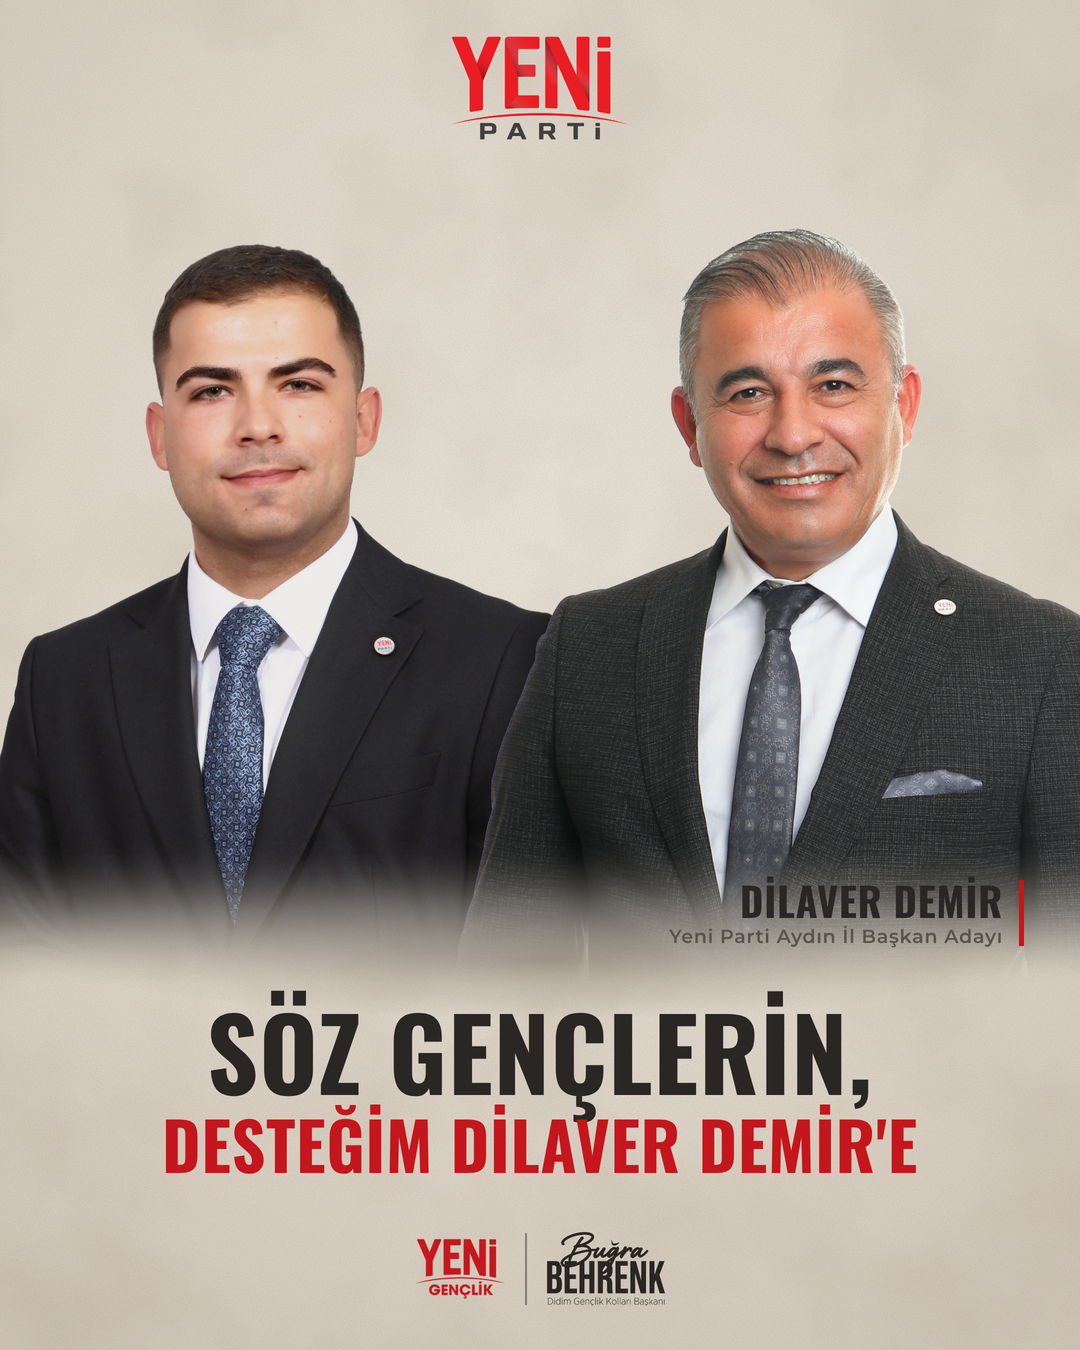
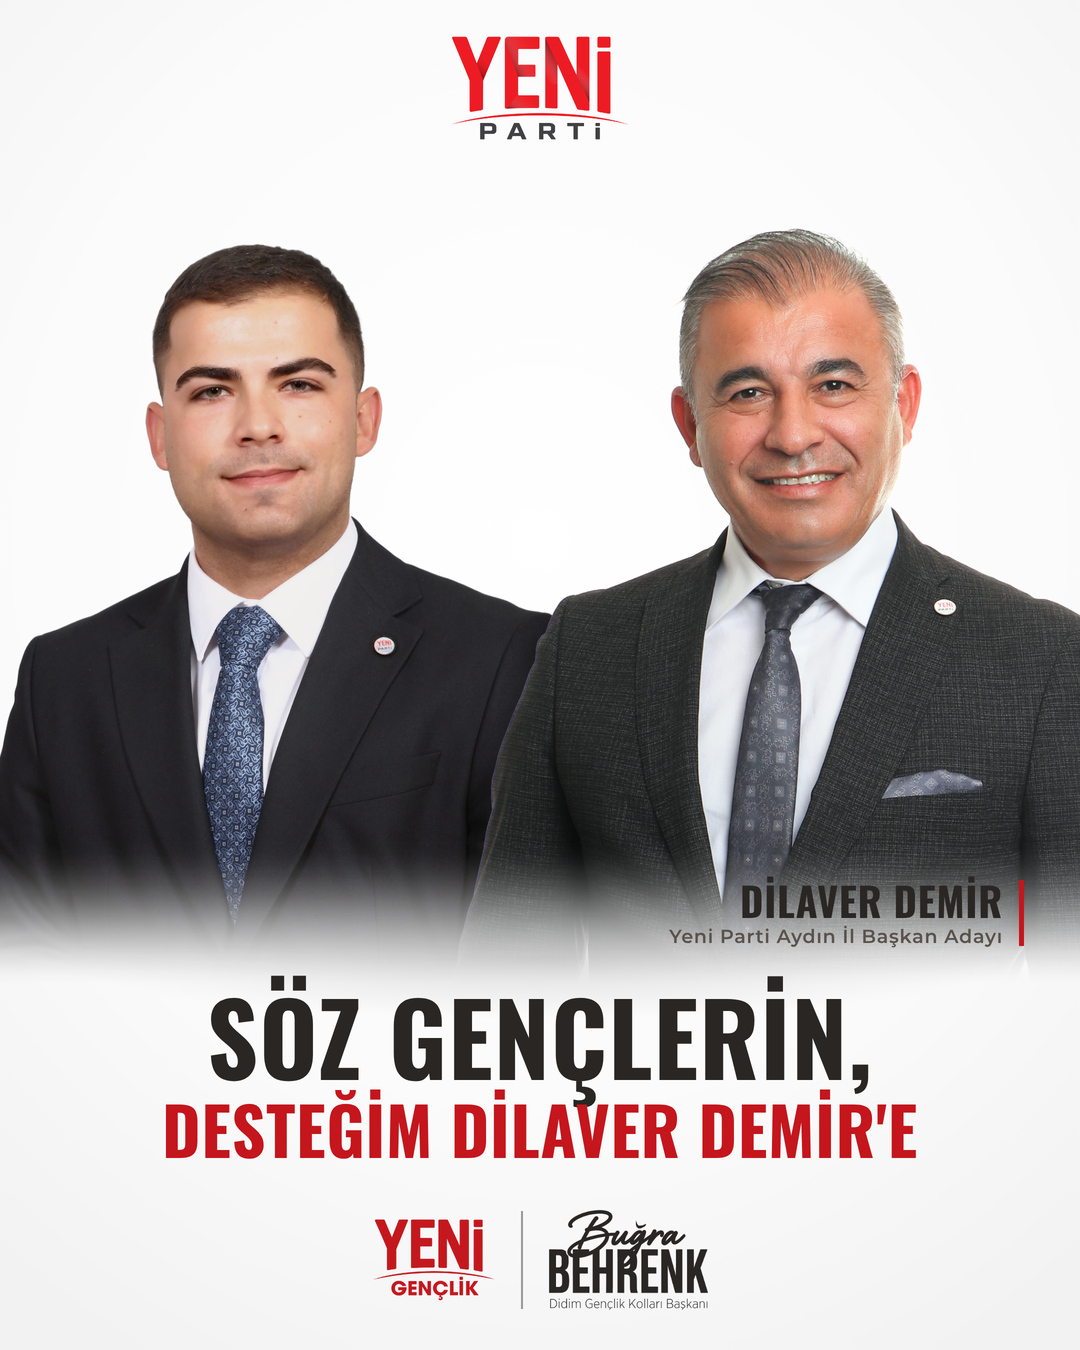
Destek afişi: beyaz zemin, imza bloğu büyütüldü
Claude-Session: https://claude.ai/code/session_01SatttGbgBLoCnk9KGLypWv

diff --git a/tasarim/kisisel/destek/destek.html b/tasarim/kisisel/destek/destek.html
@@ -4,23 +4,23 @@
 @font-face{font-family:M6;src:url(../../fontlar-gecici/Montserrat-600.ttf)}
 :root{--kirmizi:#C4161C;--murekkep:#2A2624;--bej:#E6E0D6}
 html,body{margin:0;width:1080px;height:1350px;overflow:hidden}
-body{position:relative;background:radial-gradient(ellipse 80% 70% at 50% 40%,#EEE9E0 0%,#E4DDD2 60%,#D6CDBF 100%)}
-.doku{position:absolute;inset:0;opacity:.5;mix-blend-mode:multiply}
-.lekeler{position:absolute;inset:0;opacity:.35;mix-blend-mode:multiply}
+body{position:relative;background:radial-gradient(ellipse 80% 70% at 50% 40%,#FFFFFF 0%,#FBFBFB 60%,#F2F2F3 100%)}
+.doku{position:absolute;inset:0;opacity:.5;mix-blend-mode:multiply;display:none}
+.lekeler{display:none}
 .logo{position:absolute;left:50%;top:34px;width:180px;transform:translateX(-50%)}
 .kisiler{position:absolute;left:0;top:0;width:1080px;height:1350px;transform:scale(1.05);transform-origin:540px 390px}
 .zemin-golge{position:absolute;left:60px;right:60px;top:900px;height:120px;border-radius:50%;
-  background:radial-gradient(ellipse at center,rgba(60,45,35,.28),transparent 70%)}
+  background:radial-gradient(ellipse at center,rgba(40,40,45,.14),transparent 70%)}
 .etiket{position:absolute;right:56px;top:880px;padding-right:16px;border-right:5px solid var(--kirmizi);color:var(--murekkep);text-align:right}
 .etiket b{display:block;font:40px/1 O7;letter-spacing:.02em}
 .etiket span{display:block;margin-top:7px;font:19px/1 M6;letter-spacing:.04em;color:#5A524C}
-.slogan{position:absolute;left:0;right:0;top:1000px;text-align:center}
+.slogan{position:absolute;left:0;right:0;top:985px;text-align:center}
 .s-1{font:100px/1 O7;letter-spacing:.01em;color:var(--murekkep)}
 .s-2{margin-top:10px;font:66px/1 O7;letter-spacing:.01em;color:var(--kirmizi)}
-.imza{position:absolute;left:0;right:0;bottom:44px;display:flex;justify-content:center;align-items:center;gap:20px}
-.imza .gl{height:62px}
-.imza .ayrac{width:2px;height:72px;background:rgba(42,38,36,.45)}
-.imza .isim{height:74px}
+.imza{position:absolute;left:0;right:0;bottom:40px;display:flex;justify-content:center;align-items:center;gap:26px}
+.imza .gl{height:84px}
+.imza .ayrac{width:2px;height:98px;background:rgba(42,38,36,.45)}
+.imza .isim{height:100px}
 .doku.ust{opacity:.18}
 </style>
 <body>
